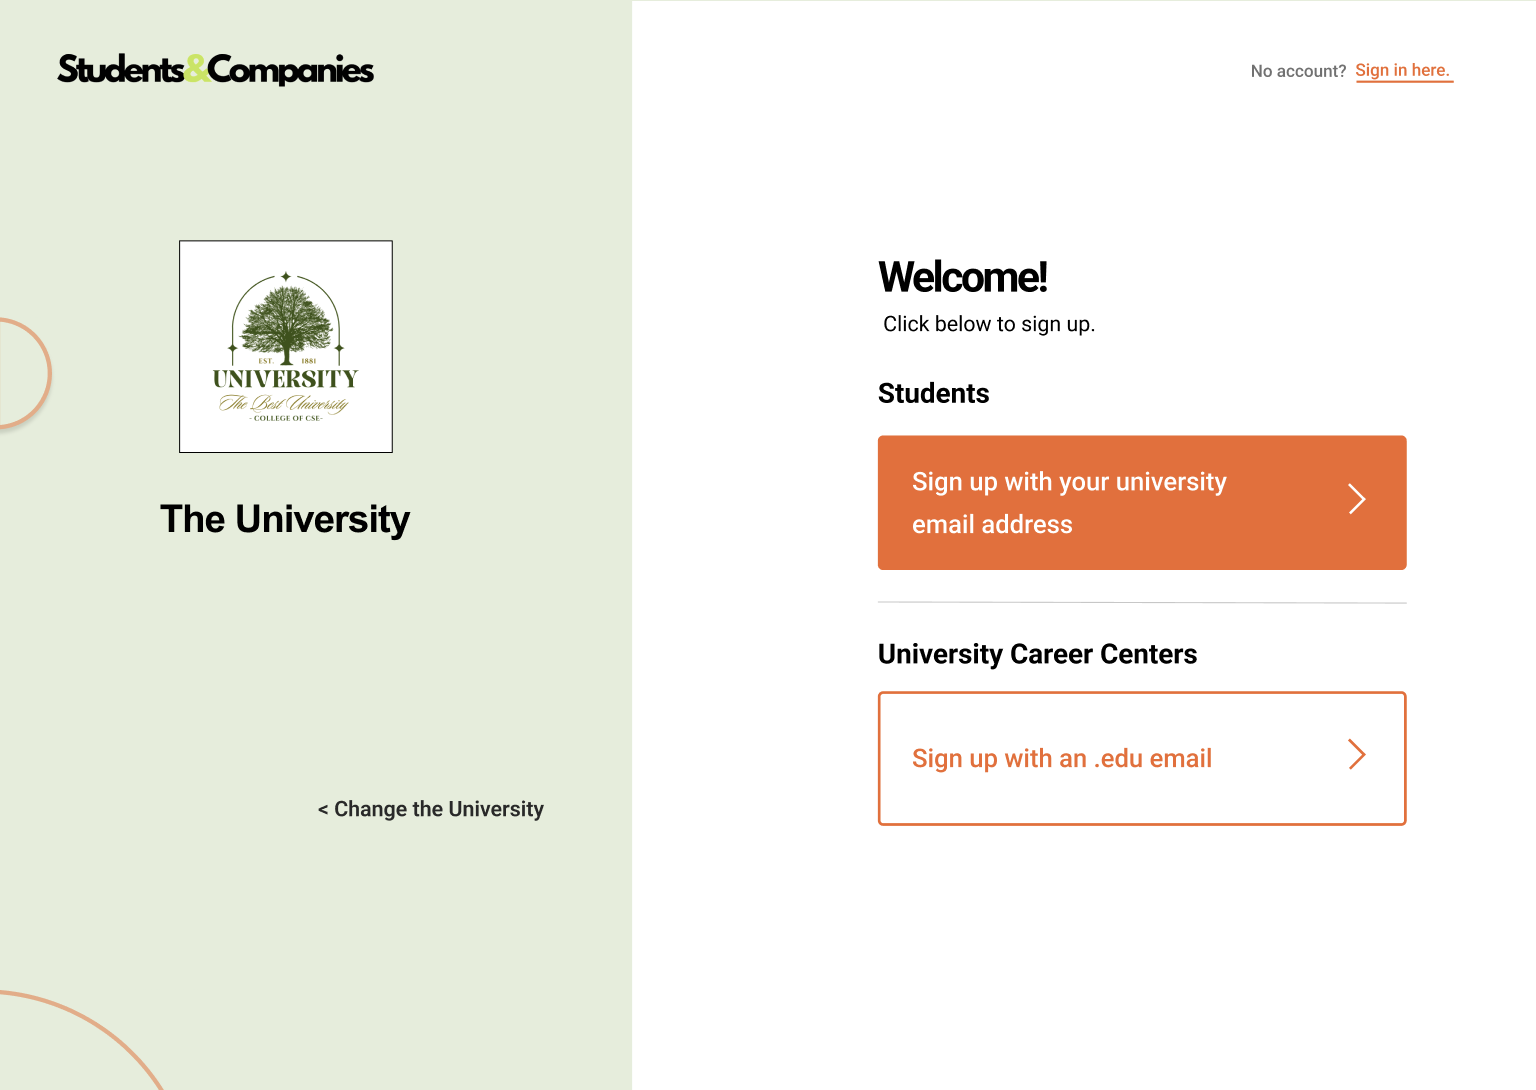
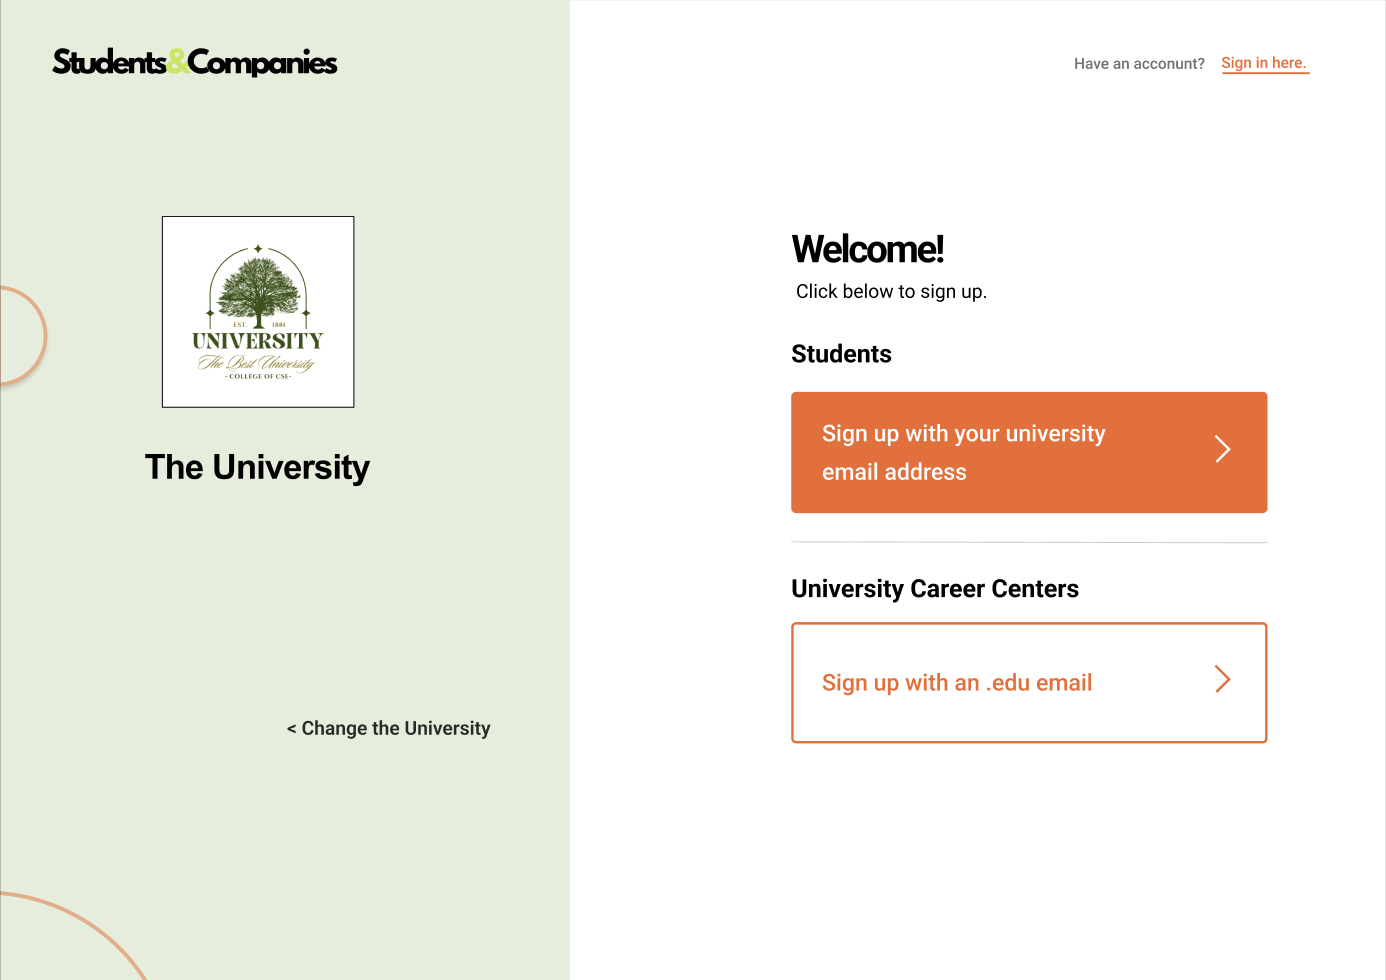
Updates from Overleaf

diff --git a/DD.tex b/DD.tex
@@ -518,6 +518,313 @@ or networks.
 \newpage
 
 \section{User Interface Design}
+In this section, three distinct primary interfaces are designed based on the user types (university, student, and company). The system is intended to operate on any desktop or mobile browser capable of facilitating interaction with the user. Furthermore, this section will present detailed explanations of the interface mockups, illustrating the system's operational flow and the core functionalities that will interact with the user.
+
+\subsubsection*{Entrance Page}
+This page is presented to the user as the welcoming page upon their initial login to the system.
+\begin{figure}[H]
+    \centering
+    \includegraphics[scale = 0.40]{figures/UserInterfaces/General/Entrance.png}
+    \caption{Entrance}
+    \centering
+\end{figure}
+\subsubsection*{Home Sign Up Page}
+This page presents a primary sign-up interface, allowing the user to make selections based on their user type. Company users are required to proceed by selecting the appropriate sign-up page for companies within the interface. Furthermore, students or university representatives (e.g., career services) are expected to make their selection from the list of institutions provided by the National Education Dictionary API.
+\begin{figure}[H]
+    \centering
+    \includegraphics[scale = 0.40]{figures/UserInterfaces/General/HomeSignUp.png}
+    \caption{Home Sign Up Page}
+    \centering
+\end{figure}
+\begin{figure}[H]
+    \centering
+    \includegraphics[scale = 0.45]{figures/UserInterfaces/General/SUSignUp.png}
+    \caption{Student \& University Sign Up}
+    \centering
+\end{figure}
+
+\subsubsection*{Student Sign Up and Upload CV Pages}
+We assumed that on this page, the student is required to provide their university email and set a password during the registration process. After completing the registration part, the system expects to upload an up-to-date CV from the students to complete their profile. Once both pages in the interface are filled out, the system finalizes the student's registration process.
+\begin{figure}[H]
+    \centering
+    \includegraphics[scale = 0.45]{figures/UserInterfaces/General/StudentSignUp.png}
+    \caption{Student Sign Up Page}
+    \centering
+\end{figure}
+\begin{figure}[H]
+    \centering
+    \includegraphics[scale = 0.42]{figures/UserInterfaces/General/StudentUploadCV.png}
+    \caption{Student Upload CV}
+    \centering
+\end{figure}
+\subsubsection*{University Student Sign Up and Upload CV Pages}
+\begin{figure}[H]
+    \centering
+    \includegraphics[scale = 0.45]{figures/UserInterfaces/General/UniversitySignUp.png}
+    \caption{University Sign Up Page}
+    \centering
+\end{figure}
+\begin{figure}[H]
+    \centering
+    \includegraphics[scale = 0.45]{figures/UserInterfaces/General/EmployerSignUp.png}
+    \caption{Employer Sign Up Page}
+    \centering
+\end{figure}
+\begin{figure}[H]
+    \centering
+    \includegraphics[scale = 0.42]{figures/UserInterfaces/General/HomeSignIn.png}
+    \caption{Student \& University Home Sign In}
+     \centering
+\end{figure}
+
+\begin{figure}[H]
+    \centering
+    \includegraphics[scale = 0.40]{figures/UserInterfaces/General/StudentSignIn.png}
+    \caption{Student Sign In}
+     \centering
+\end{figure}
+\begin{figure}[H]
+    \centering
+\begin{figure}[H]
+    \centering
+    \includegraphics[scale = 0.40]{figures/UserInterfaces/General/UniversitySignIn.png}
+    \caption{University Sign In}
+     \centering
+\end{figure}
+    \includegraphics[scale = 0.40]{figures/UserInterfaces/General/EmployerSignIn.png}
+    \caption{Employer Sign In}
+     \centering
+\end{figure}
+
+\begin{figure}[H]
+    \centering
+    \includegraphics[scale = 0.35
+    ]{figures/UserInterfaces/Student/Profile.png}
+    \caption{Student Profile Details}
+     \centering
+\end{figure}
+    \begin{figure}[H]
+    \centering
+    \includegraphics[scale = 0.40]{figures/UserInterfaces/Student/HomePage1.png}
+    \caption{Student Home Page 1}
+     \centering
+\end{figure}
+
+\begin{figure}[H]
+    \centering
+    \includegraphics[scale = 0.40]{figures/UserInterfaces/Student/HomePage2.png}
+    \caption{Student Home Page 2}
+     \centering
+\end{figure}
+
+\begin{figure}[H]
+    \centering
+    \includegraphics[scale = 0.435]{figures/UserInterfaces/Student/Notifications.png}
+    \caption{Student Notifications}
+     \centering
+\end{figure}
+
+\begin{figure}[H]
+    \centering
+    \includegraphics[scale = 0.40]{figures/UserInterfaces/Student/ProfileMenu.png}
+    \caption{Student Profile Menu}
+     \centering
+\end{figure}
+
+\begin{figure}[H]
+    \centering
+    \includegraphics[scale = 0.55]{figures/UserInterfaces/Student/AdvertisementPage.png}
+    \caption{Advertisement Details Page}
+     \centering
+\end{figure}
+
+\begin{figure}[H]
+    \centering
+    \includegraphics[scale = 0.42]{figures/UserInterfaces/Student/AcceptedProposals.png}
+    \caption{Student Accepted Internships}
+     \centering
+\end{figure}
+\begin{figure}[H]
+    \centering
+    \includegraphics[scale = 0.42]{figures/UserInterfaces/Student/AcceptPop-up.png}
+    \caption{Accepting the position}
+     \centering
+\end{figure}
+
+
+\begin{figure}[H]
+    \centering
+    \includegraphics[scale = 0.42]{figures/UserInterfaces/Student/StudentComplaints.png}
+    \caption{Student Ongoing Internship Complaints}
+     \centering
+\end{figure}
+\begin{figure}[H]
+    \centering
+    \includegraphics[scale = 0.42]{figures/UserInterfaces/Student/MatchedInternships.png}
+    \caption{Student Matched Internships}
+     \centering
+\end{figure}
+
+\begin{figure}[H]
+    \centering
+    \includegraphics[scale = 0.42]{figures/UserInterfaces/Student/BookingPop-up.png}
+    \caption{Student Interview Schedule}
+     \centering
+\end{figure}
+
+\begin{figure}[H]
+    \centering
+    \includegraphics[scale = 0.42]{figures/UserInterfaces/Student/Feedback.png}
+    \caption{Student Feedback}
+     \centering
+\end{figure}
+
+\begin{figure}[H]
+    \centering
+    \includegraphics[scale = 0.42]{figures/UserInterfaces/Student/AppliedPositions.png}
+    \caption{Student Applied Internships}
+     \centering
+\end{figure}
+
+\begin{figure}[H]
+    \centering
+    \includegraphics[scale = 0.42]{figures/UserInterfaces/Student/Settings.png}
+    \caption{Student Settings}
+     \centering
+\end{figure}
+\begin{figure}[H]
+    \centering
+    \includegraphics[scale = 0.42]{figures/UserInterfaces/Student/UploadCv.png}
+    \caption{Student Update CV}
+     \centering
+\end{figure}
+\begin{figure}[H]
+    \centering
+    \includegraphics[scale = 0.42]{figures/UserInterfaces/Student/SuggestionNotification.png}
+    \caption{Student Suggestions Notification}
+     \centering
+\end{figure}
+\begin{figure}[H]
+    \centering
+    \includegraphics[scale = 0.65]{figures/UserInterfaces/Student/CVSuggestion.png}
+    \caption{Student CV Suggestion Template}
+     \centering
+\end{figure}
+
+\begin{figure}[H]
+    \centering
+    \includegraphics[scale = 0.42]{figures/UserInterfaces/Company/CompanyHome.png}
+    \caption{Company Home Page}
+     \centering
+\end{figure}
+\begin{figure}[H]
+    \centering
+    \includegraphics[scale = 0.40]{figures/UserInterfaces/Company/CompanySuggestion.png}
+    \caption{Company Advertisement Suggestion Template}
+     \centering
+\end{figure}
+\begin{figure}[H]
+    \centering
+    \includegraphics[scale = 0.42]{figures/UserInterfaces/Company/CreateInternship1.png}
+    \caption{Create Internship Page 1}
+     \centering
+\end{figure}
+\begin{figure}[H]
+    \centering
+    \includegraphics[scale = 0.40]{figures/UserInterfaces/Company/CreateInternship2.png}
+    \caption{Create Internship Page 2}
+     \centering
+\end{figure}
+\begin{figure}[H]
+    \centering
+    \includegraphics[scale = 0.40]{figures/UserInterfaces/Company/CreateInternship3.png}
+    \caption{Create Internship Page 3}
+     \centering
+\end{figure}
+\begin{figure}[H]
+    \centering
+    \includegraphics[scale = 0.40]{figures/UserInterfaces/Company/ManageInternships.png}
+    \caption{Manage Internships Page}
+     \centering
+\end{figure}
+\begin{figure}[H]
+    \centering
+    \includegraphics[scale = 0.42]{figures/UserInterfaces/Company/AllCandidatesCompany.png}
+    \caption{All Candidates Page}
+     \centering
+\end{figure}
+\begin{figure}[H]
+    \centering
+    \includegraphics[scale = 0.42]{figures/UserInterfaces/Company/AcceptedProposalCompany.png}
+    \caption{Company Accepted Proposals Page}
+     \centering
+\end{figure}
+\begin{figure}[H]
+    \centering
+    \includegraphics[scale = 0.42]{figures/UserInterfaces/Company/CompanyComplaints.png}
+    \caption{Company Ongoing Internship Complaints Page}
+     \centering
+\end{figure}
+\begin{figure}[H]
+    \centering
+    \includegraphics[scale = 0.42]{figures/UserInterfaces/Company/FeedbackCompany.png}
+    \caption{Feedback}
+     \centering
+\end{figure}
+\begin{figure}[H]
+    \centering
+    \includegraphics[scale = 0.42]{figures/UserInterfaces/Company/MatchedCompany.png}
+    \caption{Company Matched Internships Page}
+     \centering
+\end{figure}
+\begin{figure}[H]
+    \centering
+    \includegraphics[scale = 0.42]{figures/UserInterfaces/Company/Scheduling.png}
+    \caption{Company Interview Scheduling}
+     \centering
+\end{figure}
+\begin{figure}[H]
+    \centering
+    \includegraphics[scale = 0.42]{figures/UserInterfaces/Company/InterviewLink.png}
+    \caption{Interview Link}
+     \centering
+\end{figure}
+\begin{figure}[H]
+    \centering
+    \includegraphics[scale = 0.42]{figures/UserInterfaces/Company/SelectionProcess.png}
+    \caption{Student Selection Process Pop-Up}
+     \centering
+\end{figure}
+\begin{figure}[H]
+    \centering
+    \includegraphics[scale = 0.42]{figures/UserInterfaces/Company/ApprovedProfiles.png}
+    \caption{Company Approved Profiles Page}
+     \centering
+\end{figure}
+\begin{figure}[H]
+    \centering
+    \includegraphics[scale = 0.42]{figures/UserInterfaces/Company/NotificationsCompany.png}
+    \caption{Company Notifications}
+     \centering
+\end{figure}
+\begin{figure}[H]
+    \centering
+    \includegraphics[scale = 0.40]{figures/UserInterfaces/University/UniversityHomePage.png}
+    \caption{University Home Page}
+     \centering
+\end{figure}
+\begin{figure}[H]
+    \centering
+    \includegraphics[scale = 0.40]{figures/UserInterfaces/University/InterruptPage.png}
+    \caption{University Interrupt Page}
+     \centering
+\end{figure}
+\begin{figure}[H]
+    \centering
+    \includegraphics[scale = 0.40]{figures/UserInterfaces/University/University Notifications.png}
+    \caption{University Notifications}
+     \centering
+\end{figure}
 \newpage
 
 \section{Requirements Traceability}
